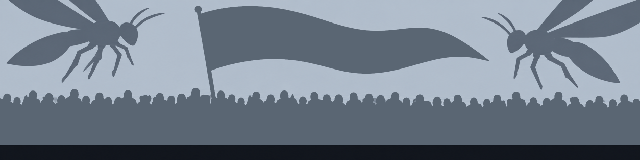
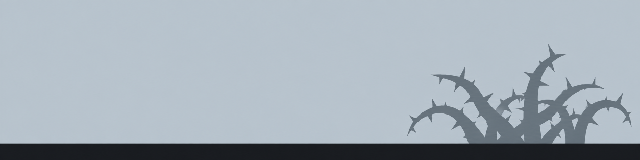
alkukenttä muutettu

diff --git a/css-kertaus/index.html b/css-kertaus/index.html
@@ -1,0 +1,31 @@
+<!DOCTYPE html>
+<html lang="fi">
+<head>
+    <meta charset="UTF-8">
+    <meta name="viewport" content="width=device-width, initial-scale=1.0">
+    <link rel="stylesheet" href="css/styles.css">
+    <title>CSS-kertaus</title>
+</head>
+<body>
+    <header>
+    <h1>CSS-ulkomuisti-harjoitus</h1>
+    <p class="info">Annettiin tekstiosiolle class</p>
+    </header>
+    <main>
+        <section>
+    <article class="card">
+        <h2>Tehdään css ulkomuistista</h2>
+        <p>tekstin sisällöllä ei merkitystä</p>
+    </article></section>
+    <section>
+    <article class="card2">
+        <h2>Tehdään css lisää ulkomuistista</h2>
+        <p id="teksti">tekstin sisällöllä ei merkitystä, mutta sitä pitää olla <strong>enemmän</strong></p>
+        <a href="https://robertfarm-hub.github.io/HTML-26/">harjoitukset verkossa</a>
+    </article></section>
+    </main>
+    <footer>
+        &copy; Robert Färm
+    </footer>
+</body>
+</html>

diff --git a/css-kertaus/css/styles.css b/css-kertaus/css/styles.css
@@ -1,0 +1,28 @@
+body {
+    background-color: bisque;
+}
+ 
+.info {
+    background-color: blueviolet;
+    padding: 1rem;
+}
+/*fontti pääotsikolle sekä kakkos-otsikolle */
+h1, h2 {font-family: 'Franklin Gothic Medium', 'Arial Narrow', Arial, sans-serif; }  
+.card {
+    background-color: blueviolet;
+    border: 2px solid;
+    border-radius: 5px;
+    padding: 1rem;
+    color:azure;
+}
+.card2 {
+    background-color: blueviolet;
+    border: 2px solid;
+    border-radius: 10px;
+    padding: 1rem;
+    color:azure;
+    line-height: 1.6;
+}
+#teksti {
+    color: #eb4034;
+}

diff --git a/odfm-sivusto/js/peli.js b/odfm-sivusto/js/peli.js
@@ -15,7 +15,7 @@ const LYHTY_X = 0.855;
 const LYHTY_Y = 0.533;
 
 const KENTAT = [
-    { kuva: "kentta-0.png", luukku: 88, lattia: 9.4 },
+    { kuva: "kentta-0.png", luukku: 80, lattia: 10.6 },
     { kuva: "kentta-1.png", luukku: 12, lattia: 18.8 },
     { kuva: "kentta-2.png", luukku: 88, lattia: 14.4 },
     { kuva: "kentta-3.png", luukku: 12, lattia: 11.9 },
